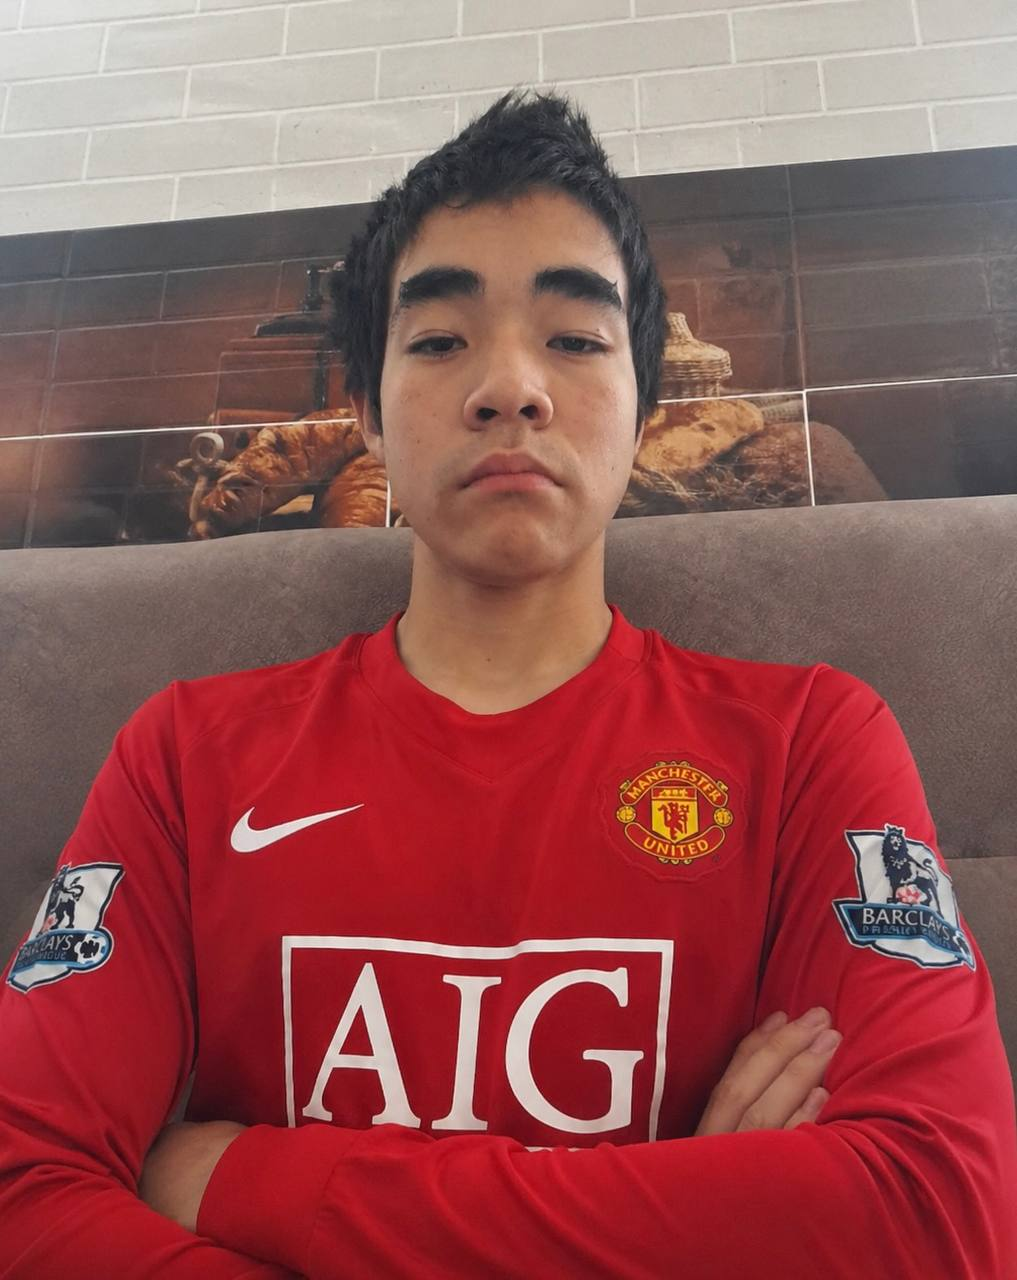
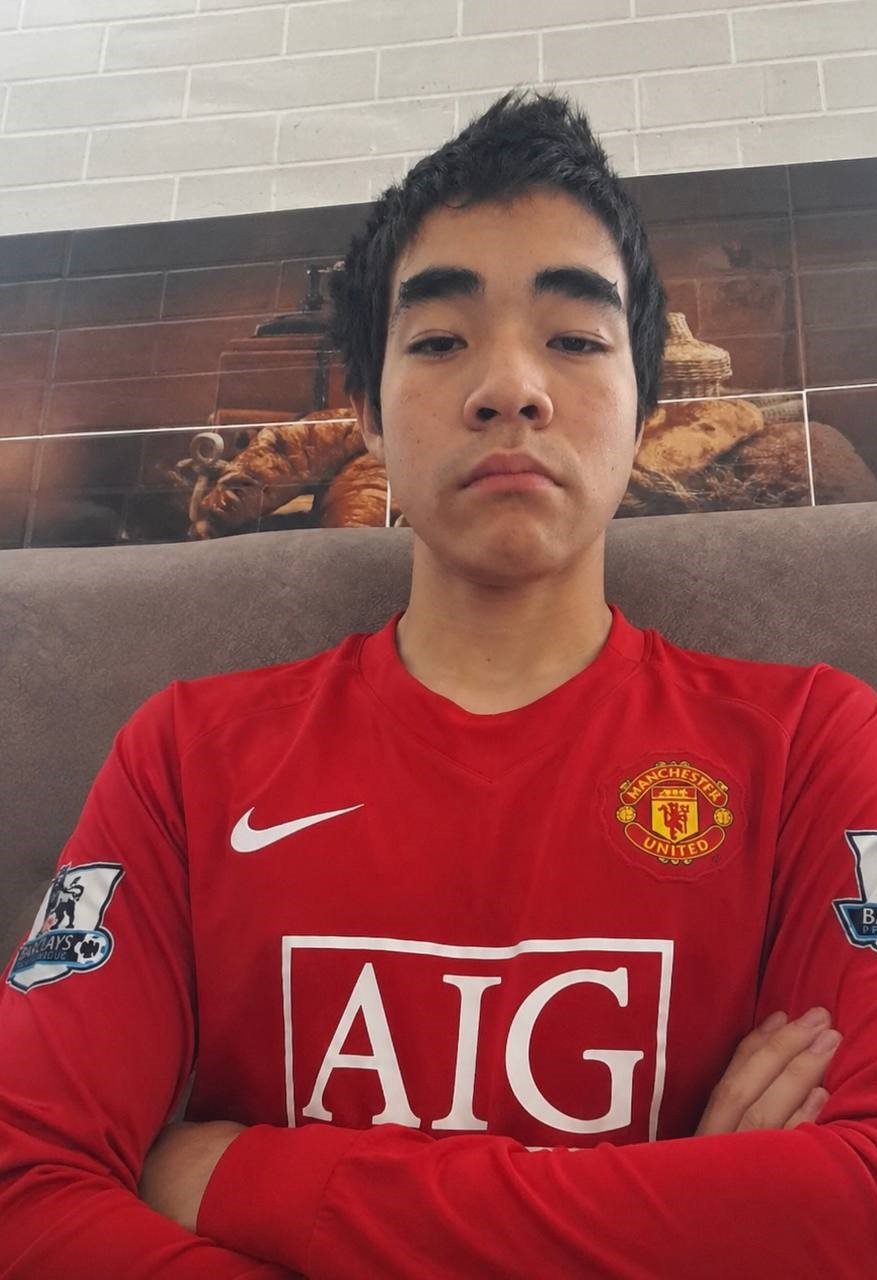
fix Ruslan and Erbolat photos

diff --git a/src/data/players.js b/src/data/players.js
@@ -34,7 +34,7 @@ const players = [
 
   name: erbolat,
 
-  positions: ["Нап", "ЦП"],
+  positions: ["Нап", "ЦП",],
 
   photo: erbolat,
 
@@ -54,6 +54,7 @@ const players = [
   goals: 0,
   assists: 0,
 },
+
   {
   id: 4,
   name: serzhan,
